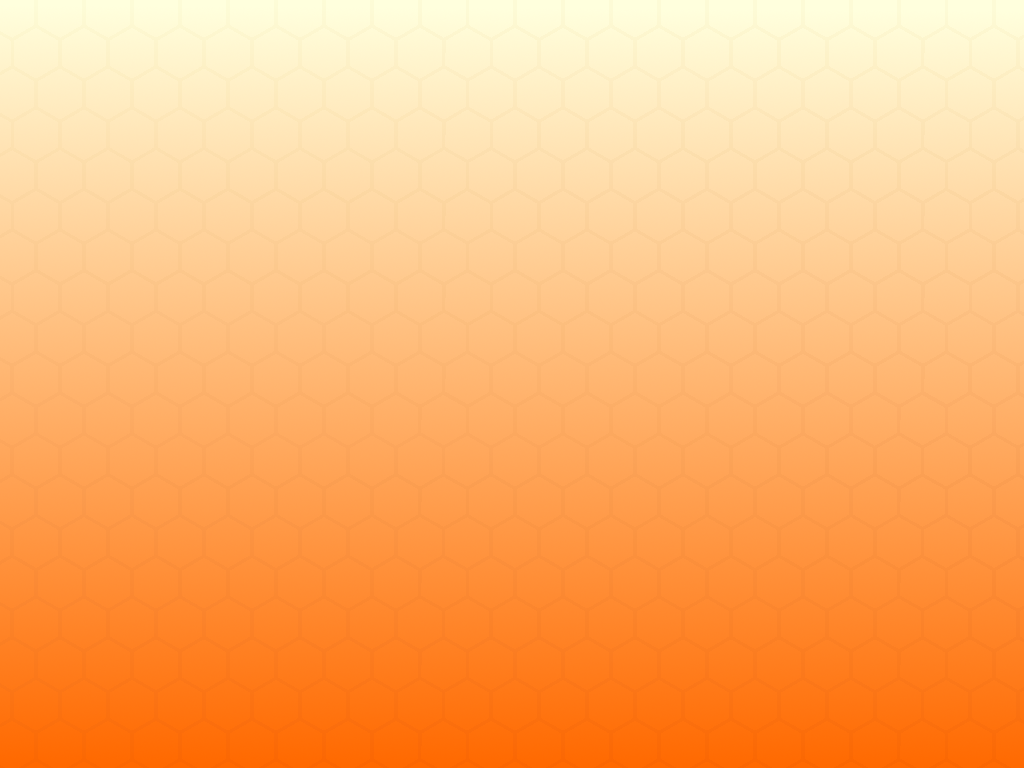
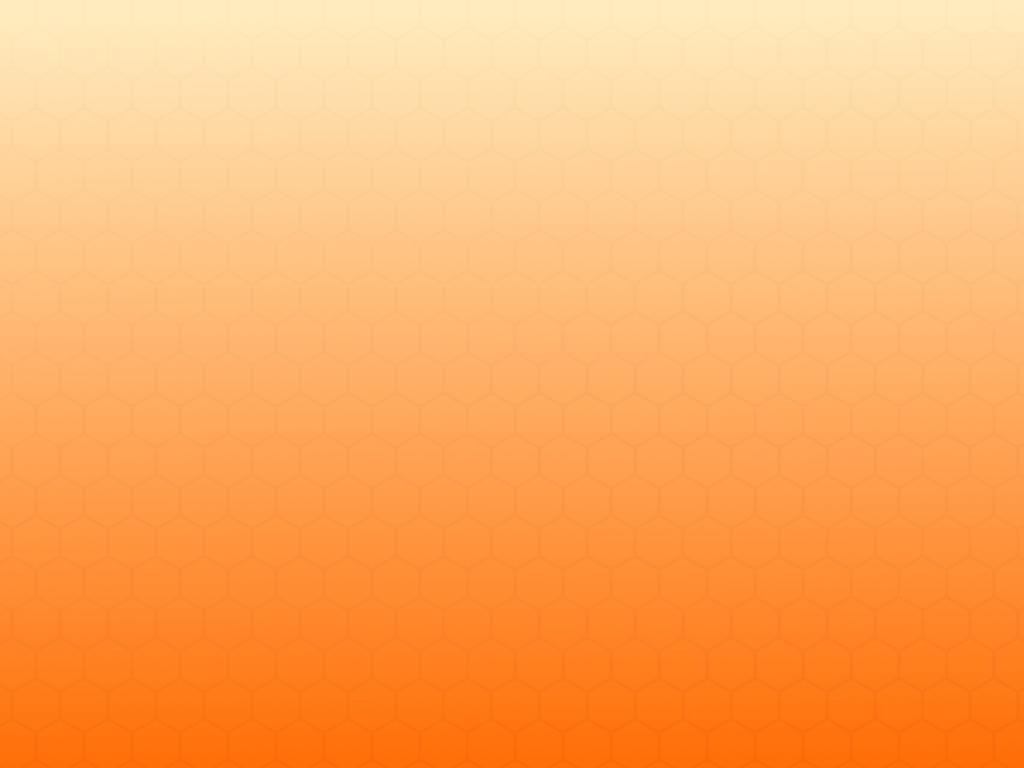
updated background & fixed spacing.. still working on font

Changed region(s): [[0.0, 0.0, 1.0, 0.2188]]

diff --git a/stylesheets/styles.css b/stylesheets/styles.css
@@ -1,5 +1,6 @@
 p {
-  font-size: 14px; }
+  font-size: 14px; 
+  font-weight: bold;}
 
 
 .navbar-default .navbar-toggle {
@@ -75,6 +76,7 @@ ul.nav a.active {
 
 body {
   font-family: Courier New, Courier, monospace;
+  font-weight: bold;
   text-align: center; }
 
 .apply {
@@ -144,7 +146,7 @@ a.sh-button:link {
     left: -30px;
     color: #faf8f3;
     display: inline-block;
-    padding: 7px 20px 0; }
+    padding: 7px 20px 9px 20px; }
 
 .organize {
   box-sizing: content-box;
@@ -205,6 +207,7 @@ a.sh-button:link {
     margin: 15px;
     padding: 10px; }
   .faq-col h3 {
+    font-weight: 600;
     margin: 0 0 15px;
     padding: 0; }
   .faq-col p {
@@ -349,8 +352,8 @@ body {
 #home h3 {
     /* margin: 0 auto; */
     color: white;
-    font-weight: normal;
-    font-size: 2rem;
+    font-weight: bold;
+    font-size: 2.5rem;
     /* font-family: Arial, Helvetica, sans-serif; */
     font-family: Courier New, Courier, monospace;
 }
@@ -359,6 +362,7 @@ body {
 #cta {
     color: white;
     width: 300px;
+    font-weight: bold;
     font-family: Courier New, Courier, monospace;
 }
 
@@ -398,7 +402,8 @@ section h1 {
   margin-bottom: 20px; 
 }
 .plain {
-  font-size: 1.1em; 
+  font-size: 1em; 
+  font-weight: bold;
   margin: 0; 
   padding: 20px 75px; 
   text-align: justify; 
